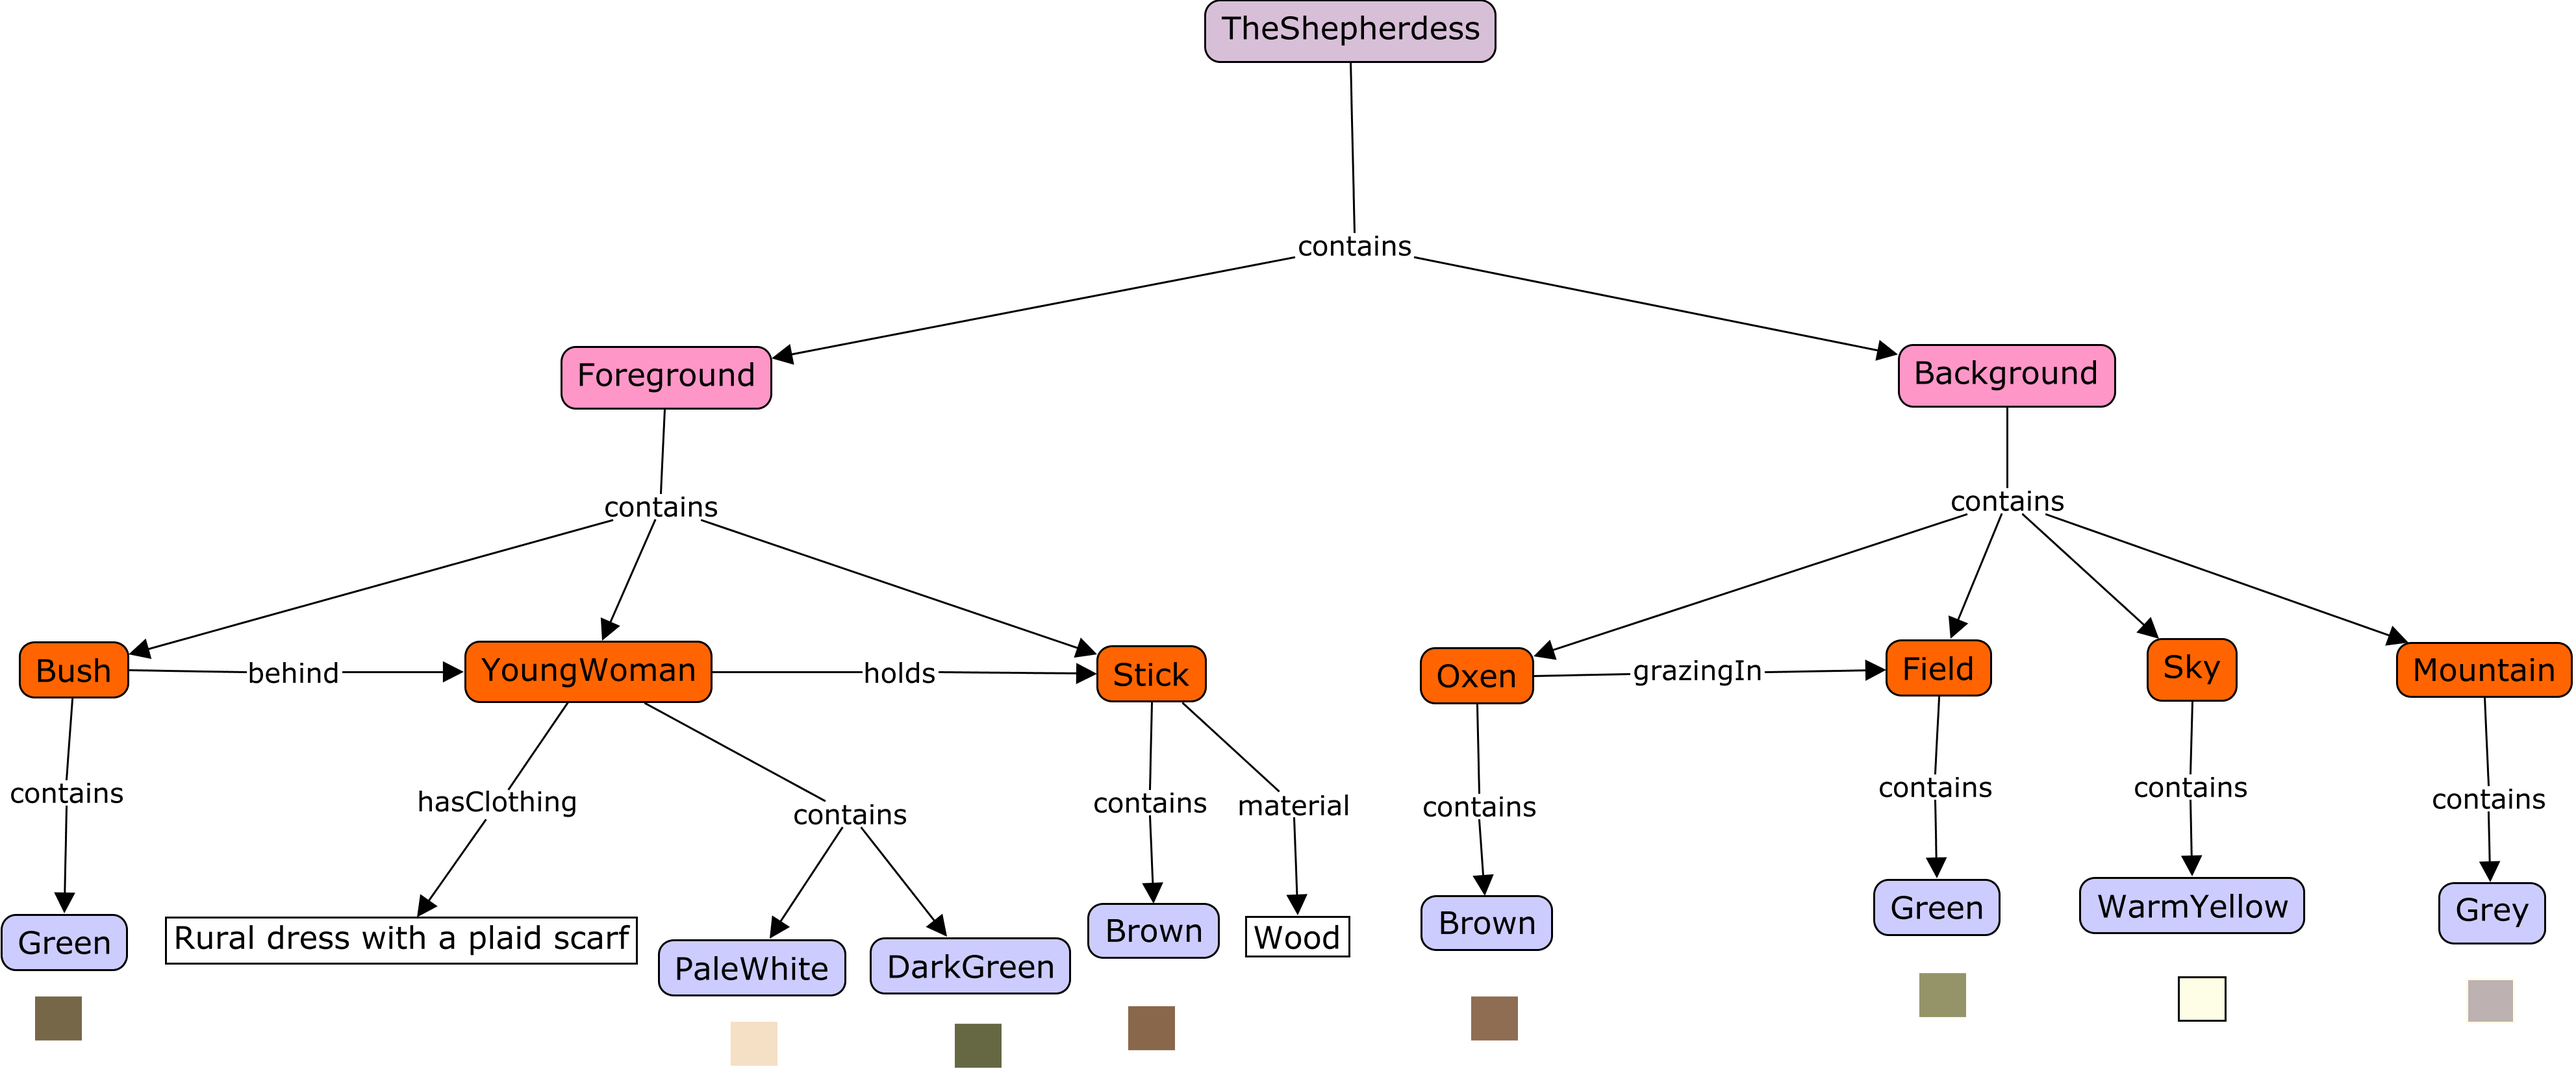
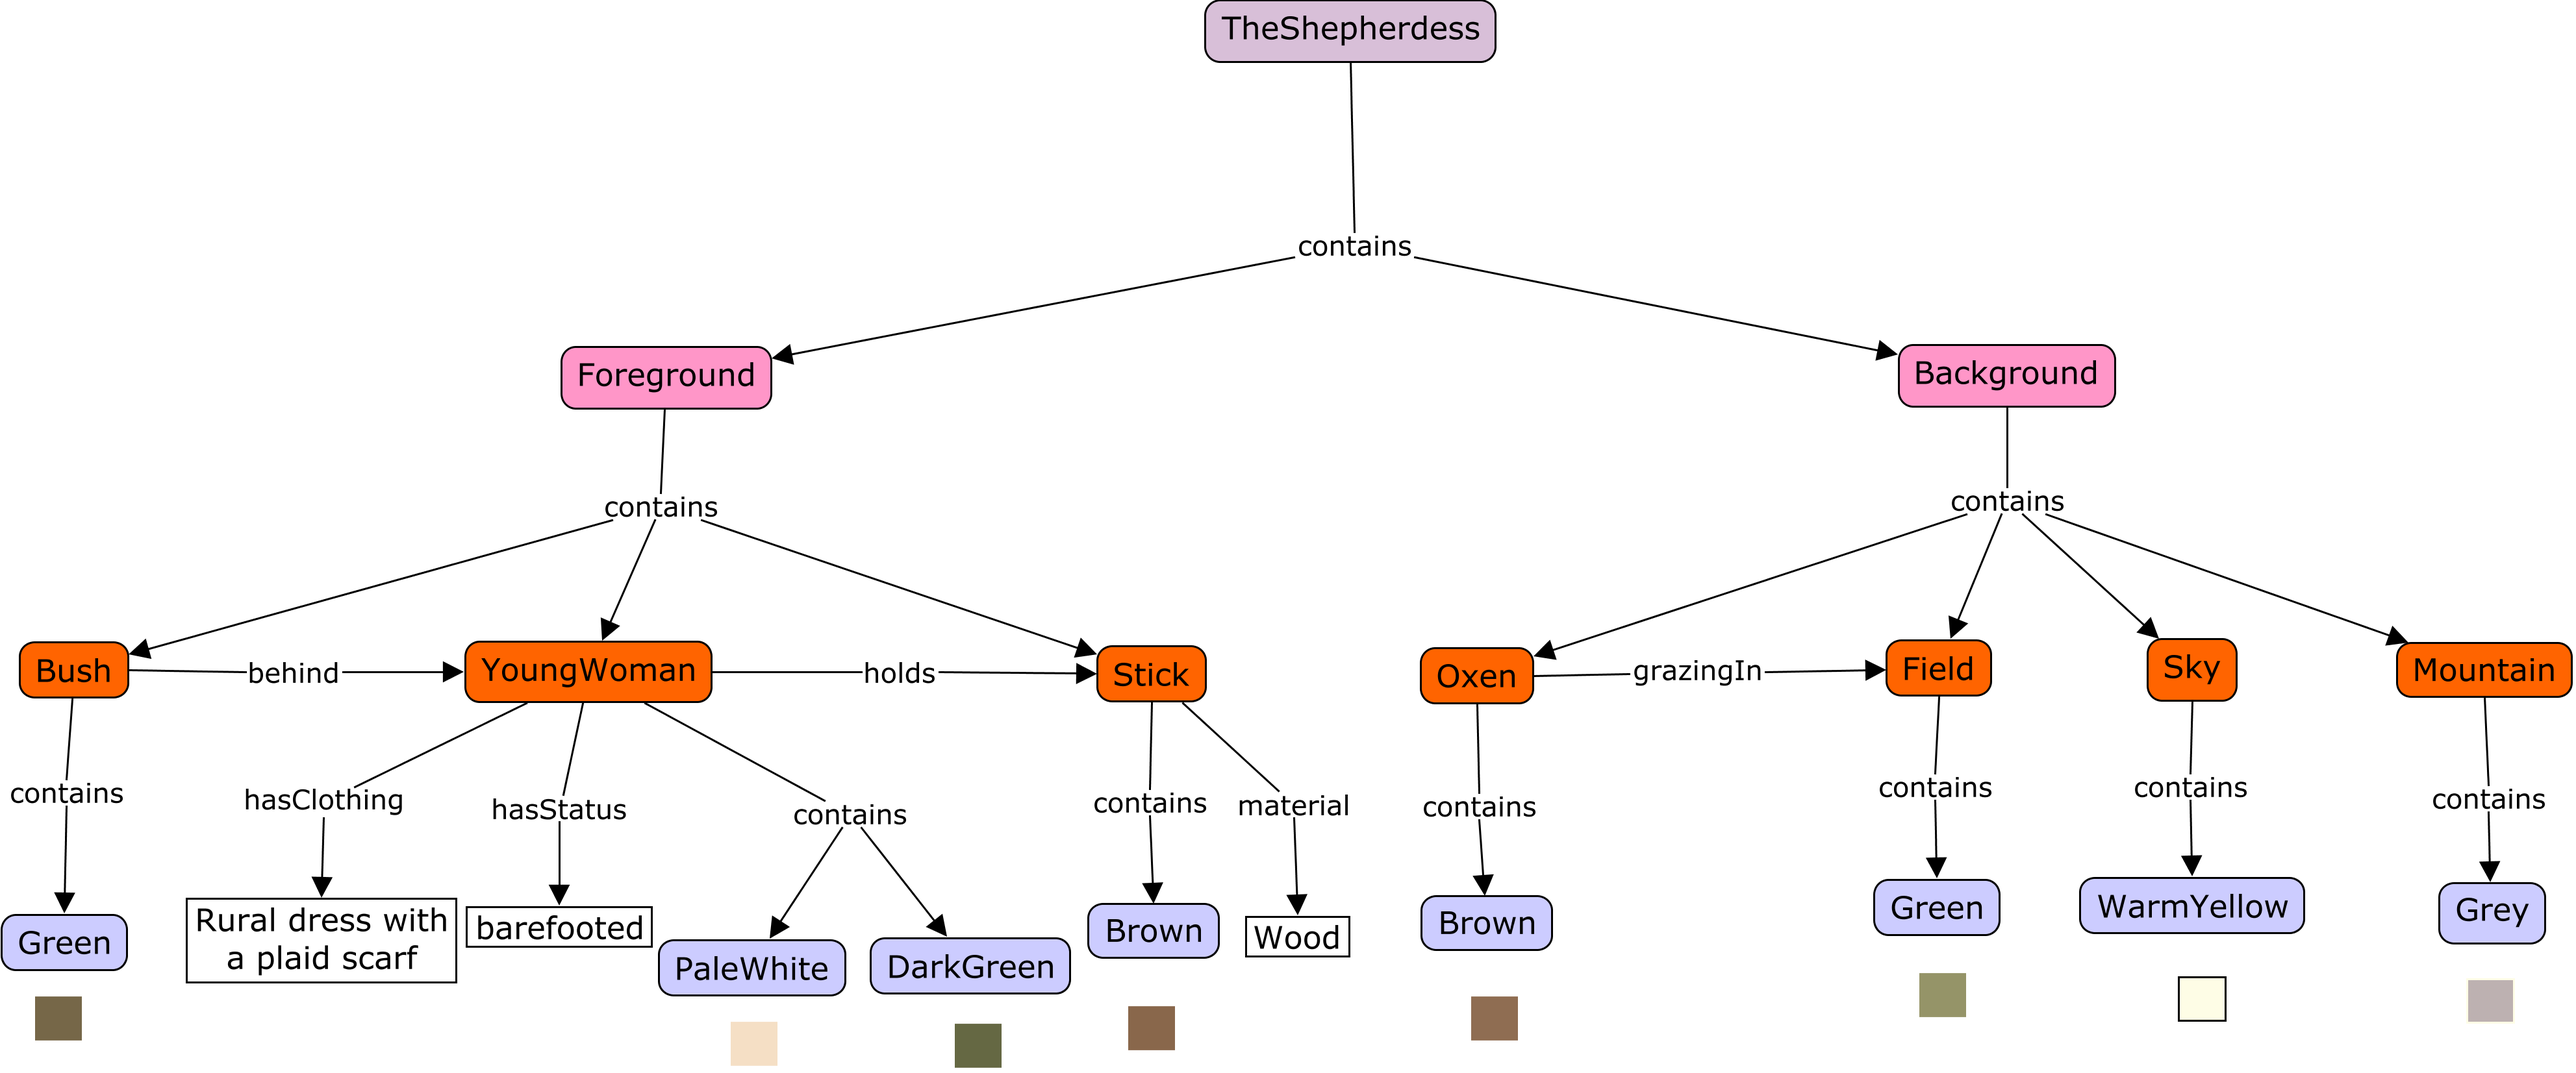
update

Changed region(s): [[0.062, 0.833, 0.2481, 0.9256], [0.093, 0.7405, 0.2481, 0.7713]]

diff --git a/README.md b/README.md
@@ -30,10 +30,15 @@ The Artwork Contextual Model complements the descriptive aspects by incorporatin
 
 ## Example 
 
-To demonstrate the application of the ARTO models, consider the artwork “The Shepherdess” by William-Adolphe Bouguereau. The Descriptive Model would detail the visual elements like the serene posture of the shepherdess and the gentle, pastoral setting. The Contextual Model would provide insights into the painting’s creation in 1889, during the artist's life, reflecting the social and historical aspects of that era in France.
+To demonstrate the application of the ARTO models, consider the artwork “The Shepherdess” by William-Adolphe Bouguereau. The Descriptive Model would detail the visual elements like the serene posture of the shepherdess and the gentle, pastoral setting. The Contextual Model would provide insights into the painting’s creation in 1889, during the artist's life, reflecting the social and historical aspects of that era in France. And to better understand how to represent the events using RDF-star format and the difference between the RDF-star format and the traditional RDF format, we create one example of using the RDF-star format and one example of using the RDF format. 
 
 
-![The contextual model of The Shepherdess](images/example.png)
+![The contextual model of The Shepherdess using RDF-Star](images/example_rdfstar.png)
+Figure shows the RDF-star format
+
+
+![The contextual model of The Shepherdess using RDF](images/example_rdf.png)
+Figure shows the RDF format
 
 ![The Descriptive model of The Shepherdess](images/example_adm.png)
 
